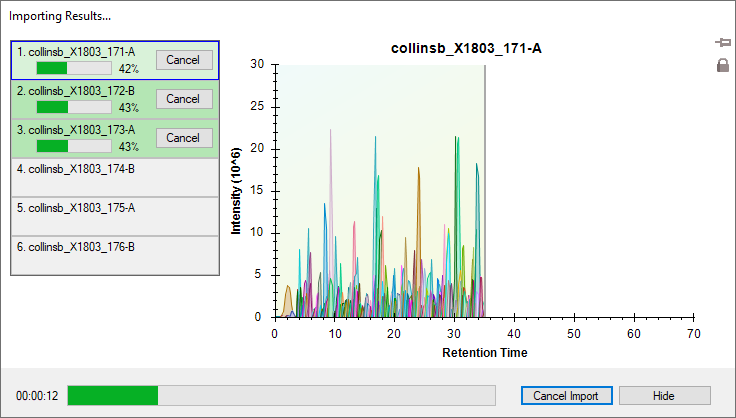
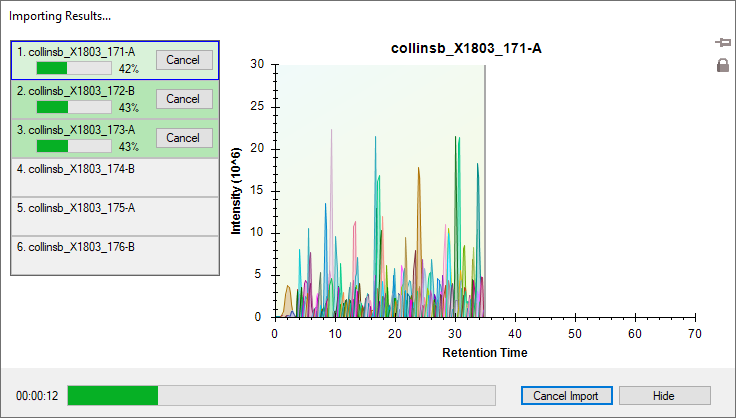
- freeze the x-axis on the AsyncChromatogramsGraph2 before data import reaches 100% for the index 0 file - not doing this was allowing inconsistency in the DIA-QE/.../s-13.png due to slight adjustment in the x-axis max depending on which file finished first

diff --git a/pwiz_tools/Skyline/Controls/Graphs/AsyncChromatogramsGraph2.cs b/pwiz_tools/Skyline/Controls/Graphs/AsyncChromatogramsGraph2.cs
@@ -72,6 +72,7 @@ namespace pwiz.Skyline.Controls.Graphs
         private bool _backgroundInitialized;
         private float? _frozenGraphTime;  // For screenshot consistency - exact RT for progress line
         private float? _frozenIntensityMax;  // For screenshot consistency - lock Y-axis maximum
+        private float? _frozenTimeMax;  // For screenshot consistency - lock X-axis maximum
 
         public AsyncChromatogramsGraph2()
             : base(@"AllChromatograms background render")
@@ -204,6 +205,10 @@ namespace pwiz.Skyline.Controls.Graphs
             // If frozen with intensity max, lock the Y-axis scale
             if (_frozenIntensityMax.HasValue)
                 maxY = _frozenIntensityMax.Value;
+
+            // If frozen, lock the X-axis scale
+            if (_frozenTimeMax.HasValue)
+                maxX = _frozenTimeMax.Value;
 
             // Start scaling animation if necessary.
             _xAxisAnimation.SetTarget(info.GraphPane.XAxis.Scale.Max, maxX, STEPS_FOR_TIME_AXIS_ANIMATION);
@@ -358,12 +363,31 @@ namespace pwiz.Skyline.Controls.Graphs
             // The frozen graph time ensures consistent progress line position
             _frozenGraphTime = graphTime;
             _frozenIntensityMax = intensityMax;
+            // Note: X-axis max is captured separately via CaptureXAxisMax() when called
+            // at an earlier point in the import process
+        }
+
+        /// <summary>
+        /// Capture the current X-axis maximum to freeze it for consistent screenshots.
+        /// This should be called early in the import process (e.g., when any file reaches 50%)
+        /// before the non-deterministic race to completion begins.
+        /// </summary>
+        public void CaptureXAxisMax()
+        {
+            if (_frozenTimeMax.HasValue)
+                return; // Already captured
+
+            var info = GetInfo(Key);
+            if (info != null)
+            {
+                _frozenTimeMax = (float)info.GraphPane.XAxis.Scale.Max;
+            }
         }
 
         /// <summary>
         /// Whether the graph has frozen values set for screenshot capture.
         /// </summary>
-        public bool IsGraphFrozen => _frozenGraphTime.HasValue || _frozenIntensityMax.HasValue;
+        public bool IsGraphFrozen => _frozenGraphTime.HasValue || _frozenIntensityMax.HasValue || _frozenTimeMax.HasValue;
 
         /// <summary>
         /// Whether the graph has data loaded and ready to display.
@@ -377,6 +401,7 @@ namespace pwiz.Skyline.Controls.Graphs
         {
             _frozenGraphTime = null;
             _frozenIntensityMax = null;
+            _frozenTimeMax = null;
         }
 
         /// <summary>
@@ -396,6 +421,9 @@ namespace pwiz.Skyline.Controls.Graphs
                 // If frozen with intensity max, lock the Y-axis scale
                 if (_frozenIntensityMax.HasValue)
                     maxY = _frozenIntensityMax.Value;
+                // If frozen, lock the X-axis scale
+                if (_frozenTimeMax.HasValue)
+                    maxX = _frozenTimeMax.Value;
                 info.GraphPane.XAxis.Scale.Max = maxX;
                 info.GraphPane.YAxis.Scale.Max = maxY;
                 info.GraphPane.AxisChange();

diff --git a/pwiz_tools/Skyline/Controls/Graphs/AllChromatogramsGraph.cs b/pwiz_tools/Skyline/Controls/Graphs/AllChromatogramsGraph.cs
@@ -914,6 +914,18 @@ namespace pwiz.Skyline.Controls.Graphs
                 if (status == null || status.ProgressList.Count == 0)
                     return false; // Not yet frozen, waiting for threshold
 
+                // Capture X-axis max early (when any file reaches threshold/2) to avoid
+                // non-determinism from the race to completion between parallel file imports
+                int xAxisCaptureThreshold = _freezeProgressPercent.Value / 2;
+                foreach (var progressStatus in status.ProgressList)
+                {
+                    if (progressStatus.PercentComplete >= xAxisCaptureThreshold)
+                    {
+                        graphChromatograms.CaptureXAxisMax();
+                        break;
+                    }
+                }
+
                 // Check if file at index 0 reaches threshold (100%) to trigger freeze
                 // We use file at index 0 because that's the one shown in the graph
                 if (status.ProgressList[0].PercentComplete >= _freezeProgressPercent)
